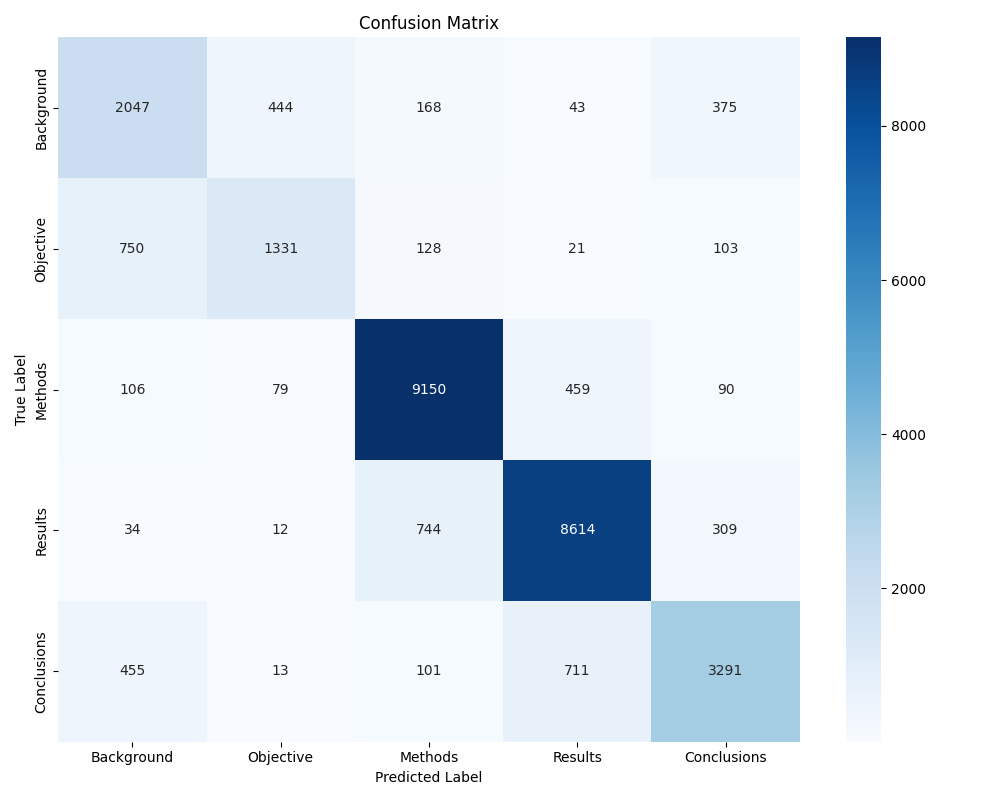
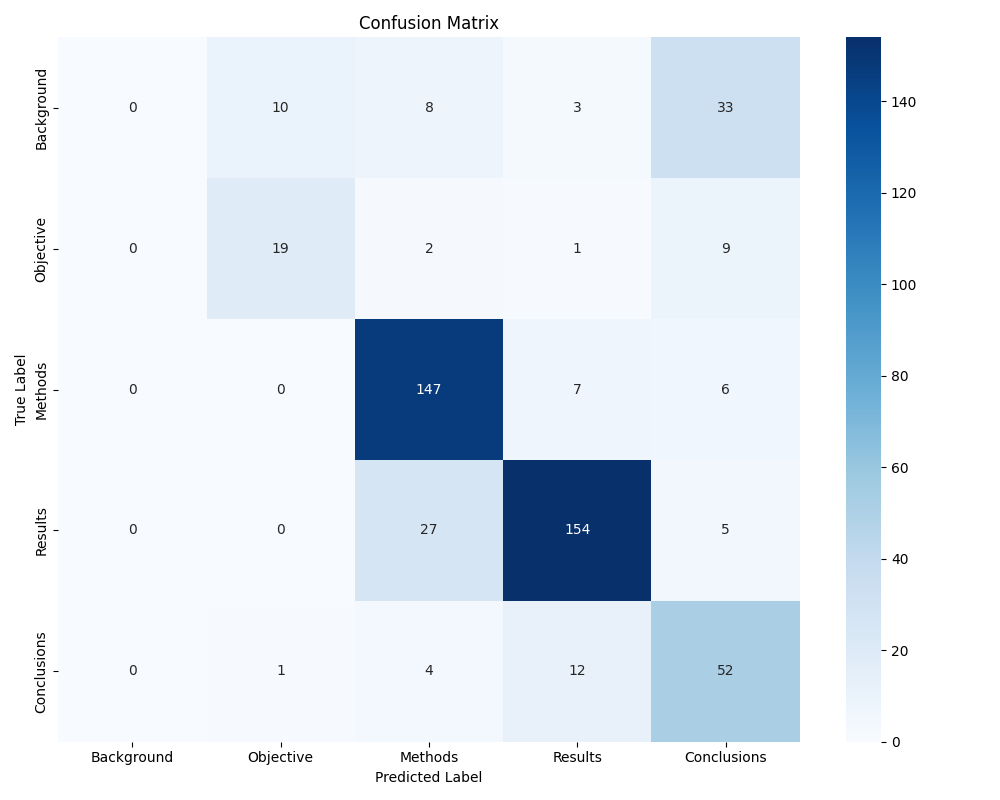
Re-organized repo structure

diff --git a/src/evaluate.py b/src/evaluate.py
@@ -218,6 +218,9 @@ def main():
     dataset = load_pubmed_rct_data()
     class_names = list(get_class_labels().values())
 
+    # DEBUG MODE (limit dataset size to avoid long runtime)
+    dataset["test"] = dataset["test"].select(range(500))
+
     if args.model_type == 'lstm':
         # Prepare LSTM data
         print("Preparing LSTM data...")
